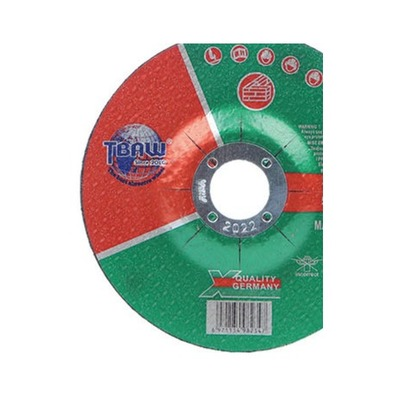
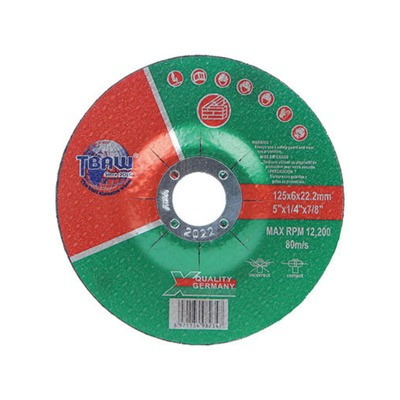
Fix abrasive image fit for abr-12/13/15/20/21/23

diff --git a/scripts/regen_abrasive_images.py b/scripts/regen_abrasive_images.py
@@ -16,6 +16,15 @@ OUT_DIR = Path('/tmp/netlify-deploy/images')
 PREVIEW_DIR = Path('/tmp/netlify-deploy/tmp_previews')
 TARGET_SIZE = 400
 
+# Keep extra breathing room for cards that previously looked too tight in UI.
+SAFE_SCALE_MAP: Dict[int, float] = {
+    12: 0.86,
+    13: 0.82,
+    15: 0.85,
+    20: 0.86,
+    21: 0.86,
+}
+
 
 @dataclass(frozen=True)
 class CropSpec:
@@ -73,11 +82,11 @@ ABR_SPECS: Dict[int, List[CropSpec]] = {
         CropSpec('cumi-08.jpg', (0.61, 0.30, 0.79, 0.43), 'largest', 'fallback from CUMI cutting row'),
     ],
     12: [
-        CropSpec('tbaw-08.jpg', (0.18, 0.14, 0.40, 0.40), 'largest', 'stone large diameter cut-off'),
+        CropSpec('tbaw-08.jpg', (0.18, 0.11, 0.46, 0.43), 'largest', 'stone large diameter cut-off (wider full-wheel crop)'),
         CropSpec('cumi-08.jpg', (0.69, 0.46, 0.90, 0.60), 'largest', 'fallback from CUMI large diameter row'),
     ],
     13: [
-        CropSpec('tbaw-08.jpg', (0.65, 0.14, 0.86, 0.36), 'largest', 'stone grinding wheel'),
+        CropSpec('tbaw-08.jpg', (0.66, 0.10, 0.96, 0.42), 'largest', 'stone grinding wheel (wider full-wheel crop)'),
         CropSpec('cumi-08.jpg', (0.61, 0.12, 0.80, 0.25), 'largest', 'fallback from CUMI grinding row'),
     ],
     14: [
@@ -85,7 +94,7 @@ ABR_SPECS: Dict[int, List[CropSpec]] = {
         CropSpec('cumi-12.jpg', (0.08, 0.74, 0.46, 0.93), 'largest', 'fallback from CUMI flap row'),
     ],
     15: [
-        CropSpec('tbaw-09.jpg', (0.55, 0.16, 0.64, 0.34), 'largest', 'flap disc (universal)'),
+        CropSpec('tbaw-09.jpg', (0.53, 0.14, 0.75, 0.39), 'largest', 'flap disc (universal, full disc crop)'),
         CropSpec('cumi-12.jpg', (0.08, 0.74, 0.46, 0.93), 'largest', 'fallback from CUMI flap row'),
     ],
     16: [
@@ -105,11 +114,11 @@ ABR_SPECS: Dict[int, List[CropSpec]] = {
         CropSpec('cumi-12.jpg', (0.08, 0.45, 0.87, 0.58), 'row', 'fallback from CUMI stick&strip row'),
     ],
     20: [
-        CropSpec('cumi-14.jpg', (0.10, 0.12, 0.25, 0.30), 'largest', 'diamond cutting disc (segmented sample)'),
+        CropSpec('cumi-14.jpg', (0.08, 0.10, 0.30, 0.33), 'largest', 'diamond cutting disc (segmented sample, wider crop)'),
         CropSpec('cumi-14.jpg', (0.25, 0.12, 0.40, 0.30), 'largest', 'fallback from CUMI continuous rim'),
     ],
     21: [
-        CropSpec('cumi-14.jpg', (0.10, 0.44, 0.25, 0.60), 'largest', 'cup wheel (segmented sample)'),
+        CropSpec('cumi-14.jpg', (0.07, 0.39, 0.30, 0.65), 'largest', 'cup wheel (segmented sample, wider crop)'),
         CropSpec('cumi-14.jpg', (0.25, 0.44, 0.40, 0.60), 'largest', 'fallback from CUMI cup wheel row'),
     ],
 }
@@ -169,10 +178,17 @@ def largest_component_crop(img: Image.Image, threshold: int = 244, pad: int = 8)
     return img.crop((l, t, r, b))
 
 
-def render_square(img: Image.Image, size: int = TARGET_SIZE, pad: int = 18) -> Image.Image:
+def render_square(
+    img: Image.Image,
+    size: int = TARGET_SIZE,
+    pad: int = 18,
+    scale: float = 1.0,
+) -> Image.Image:
     canvas = Image.new('RGB', (size, size), 'white')
     obj = img.convert('RGB')
-    obj.thumbnail((size - 2 * pad, size - 2 * pad), Image.Resampling.LANCZOS)
+    safe_scale = max(0.35, min(scale, 1.0))
+    max_side = max(1, int((size - 2 * pad) * safe_scale))
+    obj.thumbnail((max_side, max_side), Image.Resampling.LANCZOS)
     ox = (size - obj.width) // 2
     oy = (size - obj.height) // 2
     canvas.paste(obj, (ox, oy))
@@ -230,7 +246,7 @@ def build() -> None:
         if chosen_img is None or chosen_spec is None or chosen_meta is None:
             raise RuntimeError(f'Failed to generate abr-{idx:03d}')
 
-        out_img = render_square(chosen_img)
+        out_img = render_square(chosen_img, scale=SAFE_SCALE_MAP.get(idx, 1.0))
         out_path = OUT_DIR / f'abr-{idx:03d}.jpg'
         out_img.save(out_path, 'JPEG', quality=92)
 
